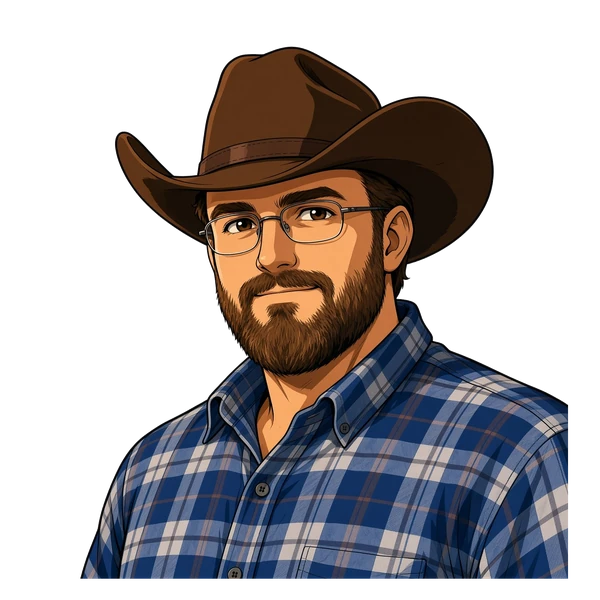
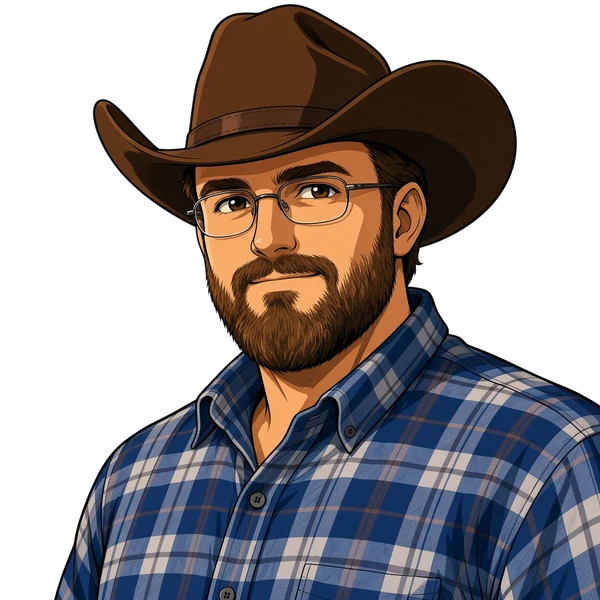
Charles's Super cleaned up, KO lines match the button
Midnight Express drops the peer-reviewer emojis for his nearly-four-hour
video (SURPRISE AMA, 0:07 / 3:47:12). Captions type at reading speed,
the lights go out mid-word, a 💤 rises, and the name card and line get
time to be read; the timing is worked out from the caption lines.

A renamed button without its own KO line now finishes with its success
line (Peer Review: PEER REVIEWED) instead of the generic JPEG TO THE
FACE. Charles's portrait crop no longer leaves a strip of red under his
shirt, and tools/art.py warns when a crop would. Landscape cut-ins get a
smaller portrait and text, with Charles's video, Toly's brochure and
Saylor's chart moved to the side.

Claude-Session: https://claude.ai/code/session_0197NeYcZbQs6GvUXdfpX7EN

diff --git a/css/style.css b/css/style.css
@@ -600,8 +600,6 @@ button, select, a.btn { font: inherit; touch-action: manipulation; }
 .gold-truck small { font: 900 10px var(--body); color: var(--gold); background: #000b; padding: 2px 6px; border-radius: 4px; margin-top: 4px; }
 .deco-run span { display: inline-block; animation: rise .25s ease-in-out infinite alternate; }
 .deco-run span:nth-child(odd) { animation-delay: -.12s; }
-.deco-nerds { font-size: 30px; }
-.deco-nerds span { display: inline-block; margin: 0 4px; animation: rise .6s ease-in-out infinite alternate; }
 .deco-drop { position: absolute; left: 8%; top: 4%; font-size: 90px; animation: drop .6s cubic-bezier(.3, 1.6, .5, 1) both; }
 .deco-bytes {
   position: absolute; left: 0; top: 7%; white-space: nowrap;
@@ -658,24 +656,46 @@ button, select, a.btn { font: inherit; touch-action: manipulation; }
 .res-astro { position: absolute; right: -4px; top: -2px; width: 70px; opacity: .9; transform: rotate(10deg); pointer-events: none; }
 .res-astro svg { width: 100%; height: auto; display: block; }
 
-/* Charles: Midnight Express. Lecture under the peer reviewers, lights out mid-word, moon and stars. */
+/* Charles: Midnight Express. His nearly-four-hour video, captions typing at reading speed, then lights
+   out mid-word, moon, stars and 💤. --off (when the lights go out) is worked out from the captions. */
 .sup-midnight .cutin-card, .sup-midnight .cutin-line { z-index: 5; }
-.lecture {
-  position: absolute; left: 50%; top: 15%;
+.cutin.sup-midnight { justify-content: flex-end; padding-bottom: 7vh; } /* the video takes the top */
+.midnight { position: absolute; inset: 0; }
+.vplayer {
+  position: absolute; left: 50%; top: 4%;
   transform: translateX(-50%);
-  max-width: calc(100% - 24px);
-  padding: 8px 12px;
-  border: 3px solid var(--line); border-radius: 12px;
-  background: #fff; color: #111;
-  font: 800 clamp(10px, 3.2vw, 14px) ui-monospace, SFMono-Regular, Menlo, monospace;
-  white-space: nowrap; overflow: hidden;
+  width: min(90%, 440px); aspect-ratio: 16 / 9;
+  border: 3px solid var(--line); border-radius: 12px; overflow: hidden;
+  background: #15131f;
+  box-shadow: 0 6px 0 #0006;
 }
-.lecture span { display: inline-block; overflow: hidden; vertical-align: bottom; width: 0; }
-.cutin.play .lecture span { animation: typeOn 1.05s .25s steps(42, end) forwards; }
+.vp-frame { position: absolute; inset: 0; display: grid; place-items: center; font-size: 70px; filter: brightness(.55) saturate(.8); }
+.vp-frame .art-head { border-radius: 0; object-position: 50% 30%; }
+.vp-title {
+  position: absolute; left: 10px; top: 8px;
+  font: 800 clamp(10px, 3vw, 13px) var(--body); letter-spacing: .06em; color: #fff;
+  text-shadow: 0 1px 2px #000;
+}
+.vp-caps {
+  position: absolute; left: 0; right: 0; bottom: 30px;
+  display: flex; flex-direction: column; align-items: center; gap: 4px;
+}
+.vp-caps span {
+  display: block; overflow: hidden; white-space: nowrap; width: 0;
+  padding: 2px 0;
+  background: #000d; color: #fff;
+  font: 800 clamp(12px, 4.1vw, 17px) ui-monospace, SFMono-Regular, Menlo, monospace;
+}
+.cutin.play .vp-caps span { animation: typeOn var(--t) var(--d) steps(var(--chars), end) forwards; }
+.vp-time { position: absolute; left: 10px; bottom: 9px; font: 700 clamp(9px, 2.8vw, 12px) var(--body); color: #fff; }
+.vp-bar { position: absolute; left: 0; right: 0; bottom: 0; height: 5px; background: #fff4; }
+.vp-bar i { position: absolute; left: 0; top: 0; bottom: 0; width: 3%; background: #ef4444; }
 .blackout { position: absolute; inset: 0; background: #04050c; opacity: 0; z-index: 2; }
-.cutin.play .blackout { animation: lightsOut .01s 1.35s forwards; }
+.cutin.play .blackout { animation: lightsOut .01s var(--off, 1.35s) forwards; }
 .night { position: absolute; inset: 0; z-index: 3; opacity: 0; }
-.cutin.play .night { animation: fadeIn .4s 1.4s forwards; }
+.cutin.play .night { animation: fadeIn .4s calc(var(--off, 1.35s) + .05s) forwards; }
+.zzz { position: absolute; left: 20%; top: 34%; font-size: 40px; opacity: 0; }
+.cutin.play .zzz { animation: zzzRise 1.8s calc(var(--off, 1.35s) + .3s) ease-out forwards; }
 .moon {
   position: absolute; right: 14%; top: 7%;
   width: min(22vw, 110px); aspect-ratio: 1; border-radius: 50%;
@@ -862,6 +882,16 @@ button, select, a.btn { font: inherit; touch-action: manipulation; }
   }
   .move { min-height: 48px; }
   .fighter { height: 70%; width: auto; aspect-ratio: .6; }
+  /* Cut-ins: a smaller portrait so portrait, name card and line fit a short screen. */
+  .cutin { gap: 10px; }
+  .cutin-portrait { width: min(36vh, 200px); }
+  .cutin-head { font-size: min(20vh, 100px); }
+  .cutin-name { font-size: min(13vh, 56px); }
+  .cutin-line { font-size: min(6.5vh, 26px); max-width: 70vw; }
+  /* Toly's brochure and Saylor's chart move to the left half, clear of the portrait. */
+  .brochure { left: 18%; top: 22%; }
+  .tracker { left: 3%; right: auto; width: 34%; top: 8%; height: 46%; }
+  .saga-box { left: 4%; bottom: 5%; }
 }
 
 /* ---------- Keyframes ---------- */
@@ -929,12 +959,19 @@ button, select, a.btn { font: inherit; touch-action: manipulation; }
 @keyframes pump { 50% { transform: rotate(-14deg); } }
 @keyframes thump { 0% { transform: scale(1.05); } 100% { transform: scale(1); } }
 @keyframes typeOn { to { width: calc(var(--chars) * 1ch); } }
+@keyframes zzzRise { 0% { opacity: 0; transform: translateY(20px) scale(.7); } 30% { opacity: 1; } 100% { opacity: .9; transform: translateY(-40px) scale(1.1); } }
 @keyframes lightsOut { to { opacity: 1; } }
 @keyframes fadeIn { to { opacity: 1; } }
 @keyframes twinkle { from { opacity: .2; } to { opacity: 1; } }
 @keyframes creep { to { transform: translateX(8vw); } }
 @keyframes glow { from { filter: brightness(1); } to { filter: brightness(1.35); } }
 @keyframes pulse { 50% { filter: brightness(1.15); transform: scale(1.015); } }
+
+/* Landscape phones: Charles's video on the left, his portrait and name card on the right. */
+@media (orientation: landscape) and (max-height: 520px) {
+  .cutin.sup-midnight { justify-content: center; align-items: flex-end; padding: 16px 5vw 16px 16px; }
+  .sup-midnight .vplayer { left: 4%; top: 50%; transform: translateY(-50%); width: min(50%, 440px); }
+}
 
 @media (prefers-reduced-motion: reduce) {
   .f-bob, .title-roster span, .move-super.ready, .blocks.full i.on, .deco-sun, .deco-run, .deco-bytes,

diff --git a/js/app.js b/js/app.js
@@ -716,17 +716,38 @@
       dots + '</svg></div>';
   }
 
-  // Charles: the peer reviewers nod along, the lecture types out, and the lights go out mid-word.
-  function midnightDeco(lecture) {
+  // Charles: his nearly-four-hour video. Captions type at reading speed, a beat, then lights out
+  // mid-word, moon and stars, 💤. Everything after the blackout is timed from when it lands.
+  var TYPE_CPS = 22;        // caption typing speed, characters per second (about reading speed)
+  function lectureTiming(lines) {
+    var t = 0.4, out = [];
+    lines.forEach(function (txt) {
+      var dur = txt.length / TYPE_CPS;
+      out.push({ delay: t, dur: dur });
+      t += dur + 0.15;
+    });
+    return { lines: out, blackout: t + 0.3 }; // the last line hangs for a beat, then lights out
+  }
+
+  function midnightDeco(sup) {
+    var T = lectureTiming(sup.lecture), off = T.blackout;
     var stars = '';
     for (var k = 0; k < 26; k++) {
       stars += '<i style="left:' + Math.round(Math.random() * 100) + '%;top:' + Math.round(Math.random() * 70) +
-        '%;animation-delay:' + (1.4 + Math.random() * 0.6).toFixed(2) + 's"></i>';
+        '%;animation-delay:' + (off + 0.05 + Math.random() * 0.6).toFixed(2) + 's"></i>';
     }
-    return '<div class="deco-row deco-nerds">' + spans('🤓💻', 5) + '</div>' +
-      '<div class="lecture"><span style="--chars:' + lecture.length + '">' + esc(lecture) + '</span></div>' +
+    var F = D.FIGHTERS.charles;
+    var caps = sup.lecture.map(function (txt, k) {
+      return '<span style="--chars:' + txt.length + ';--t:' + T.lines[k].dur.toFixed(2) + 's;--d:' +
+        T.lines[k].delay.toFixed(2) + 's">' + esc(txt) + '</span>';
+    }).join('');
+    return '<div class="midnight" style="--off:' + off.toFixed(2) + 's">' +
+      '<div class="vplayer"><div class="vp-frame">' + faceHTML(F) + '</div>' +
+      '<div class="vp-title">' + esc(sup.video.title) + '</div>' +
+      '<div class="vp-caps">' + caps + '</div>' +
+      '<div class="vp-time">' + esc(sup.video.time) + '</div><div class="vp-bar"><i></i></div></div>' +
       '<div class="blackout"></div>' +
-      '<div class="night"><div class="moon"></div>' + stars + '</div>';
+      '<div class="night"><div class="moon"></div>' + stars + '<div class="zzz">💤</div></div></div>';
   }
 
   // Garlinghouse: the polo-shirt army jogs across. One TikToker yells a price target, one carries a
@@ -744,7 +765,7 @@
       case 'dance': return { screen: badgerDanceDeco() };
       case 'helium': return { screen: '<div class="deco-sun"></div>', portrait: '<div class="dome-beam"></div>' };
       case 'xrparmy': return { screen: armyDeco() };
-      case 'midnight': return { screen: midnightDeco(D.FIGHTERS.charles.super.lecture) };
+      case 'midnight': return { screen: midnightDeco(D.FIGHTERS.charles.super) };
       case 'orangedot': return { screen: trackerChart() };
       case 'opreturn': return { screen: '<div class="deco-bytes">OP_RETURN 6a4c50' + randomHex(28) + '…</div>' };
     }
@@ -852,7 +873,14 @@
         el.style.setProperty('--line-delay', ((lockAt + 150) / 1000) + 's');
         duration = lockAt + 1700;
       }
-      // Supers with their own pacing (Charles: the name card waits for the lights to go out).
+      // Charles: the name card and line wait for the lights to go out, then get time to be read.
+      if (sup.lecture) {
+        var off = lectureTiming(sup.lecture).blackout;
+        el.style.setProperty('--card-delay', (off + 0.15) + 's');
+        el.style.setProperty('--line-delay', (off + 0.6) + 's');
+        duration = Math.round((off + 2.3) * 1000);
+      }
+      // Supers with their own pacing.
       if (sup.timing) {
         el.style.setProperty('--card-delay', sup.timing.card + 's');
         el.style.setProperty('--line-delay', sup.timing.line + 's');

diff --git a/tools/check.js b/tools/check.js
@@ -158,7 +158,7 @@ test('Toly beating Saylor, any way, reads THERE IS A SECOND BEST', function () {
   assert.strictEqual(f.finishCause, 'strike');
 });
 
-test('Toly: Comrades KO reads CHEAP FAST CHAIN GUD; MEV Hunt KO keeps EXIT LIQUIDITY', function () {
+test('Toly: Comrades KO reads CHEAP FAST CHAIN GUD; MEV Hunt KO reads its success line', function () {
   var f = E.newFight({ player: 'toly', cpu: 'mert', seed: 1 });
   f.f[1].hp = 5;
   rig(f, [cpuRoll('mert', 'strike')]);
@@ -168,7 +168,21 @@ test('Toly: Comrades KO reads CHEAP FAST CHAIN GUD; MEV Hunt KO keeps EXIT LIQUI
   g.f[1].hp = 5;
   rig(g, [cpuRoll('mert', 'strike'), 0 /* MEV Hunt lands */]);
   E.playTurn(g, 'rug');
-  assert.strictEqual(g.finish, D.FINISH.rug);
+  assert.strictEqual(g.finish, 'DRONE THE SANDWICHERS');
+});
+
+test('A renamed button without its own KO line finishes with its success line, never the generic one', function () {
+  var f = E.newFight({ player: 'charles', cpu: 'adam', seed: 1 });
+  f.f[1].hp = 5;
+  rig(f, [cpuRoll('adam', 'strike'), 0 /* Peer Review lands */]);
+  E.playTurn(f, 'mint');
+  assert.strictEqual(f.finish, 'PEER REVIEWED');
+  D.ROSTER.forEach(function (id) {
+    var M = D.FIGHTERS[id].moves || {};
+    ['mint', 'rug'].forEach(function (m) {
+      if (M[m]) assert(M[m].ko || M[m].ok, id + ' ' + m + ': needs a KO or success line');
+    });
+  });
 });
 
 test('Mert Super KO reads TRILLIONS', function () {

diff --git a/js/data.js b/js/data.js
@@ -208,10 +208,11 @@
       dodgeLine: 'I AM NOT ACCOUNTABLE', // when an attack misses him because he hid
       super: {
         id: 'midnight', name: 'Midnight Express', prop: '🐺',
-        // The lecture types out under the peer reviewers, then the lights go out mid-word.
-        lecture: 'SO, TO GIVE SOME CONTEXT, BACK IN 2015 WE—',
+        // His nearly-four-hour video: the captions type out at reading speed (one entry per line), then
+        // the lights go out mid-word. The cut-in's pacing is worked out from these lines.
+        lecture: ['SO, TO GIVE SOME CONTEXT,', 'BACK IN 2015 WE—'],
+        video: { title: 'SURPRISE AMA', time: '0:07 / 3:47:12' },
         line: 'BIGGER THAN ZCASH',
-        timing: { card: 1.5, line: 1.95, dur: 3.4 }, // seconds: name card and line wait for the blackout
         blurb: 'Hit + Sleep (skip next turn) + they lose 3 Blocks', finish: 'LFG 2027',
         cpuAfter: "I'M HERE TO STAY",
         skipLine: 'DEAL WITH IT.'

diff --git a/js/engine.js b/js/engine.js
@@ -142,7 +142,9 @@
       if (attacker === loser) { cause = 'self'; fight.finish = D.FINISH.self; }
       else if (rival) fight.finish = rival;
       else if (cause === 'super') fight.finish = W.super.finish;
-      else if (W.moves && W.moves[cause] && W.moves[cause].ko) fight.finish = W.moves[cause].ko;
+      // A renamed button's own KO line, else its success line (Charles's Peer Review: PEER REVIEWED),
+      // so a pink-button KO never falls back to the generic JPEG TO THE FACE.
+      else if (W.moves && W.moves[cause] && (W.moves[cause].ko || W.moves[cause].ok)) fight.finish = W.moves[cause].ko || W.moves[cause].ok;
       else fight.finish = D.FINISH[cause];
       fight.finishCause = cause;
       push({ t: 'ko', winner: fight.winner, loser: loser, finish: fight.finish, cause: cause });

diff --git a/tools/art.py b/tools/art.py
@@ -123,6 +123,17 @@ def main():
     if args.kind == 'head':
         c = [float(v) for v in args.crop.split(',')] if args.crop else HEAD_CROP
         w, h = im.size
+        # Reaching past an edge the art touches leaves an empty strip with a straight cut (Charles's
+        # shirt once ended short of the frame, showing his red behind it).
+        a = im.getchannel('A')
+        edges = {'left': (c[0] < 0, [a.getpixel((0, y)) for y in range(h)]),
+                 'top': (c[1] < 0, [a.getpixel((x, 0)) for x in range(w)]),
+                 'right': (c[2] > 1, [a.getpixel((w - 1, y)) for y in range(h)]),
+                 'bottom': (c[3] > 1, [a.getpixel((x, h - 1)) for x in range(w)])}
+        for side, (past, line) in edges.items():
+            if past and sum(1 for v in line if v) > len(line) // 100:
+                print('WARNING: the crop reaches past the %s edge, where the art touches it; '
+                      'that edge will show a straight cut in the round frames' % side)
         im = im.crop((round(c[0] * w), round(c[1] * h), round(c[2] * w), round(c[3] * h)))
         im = im.resize((HEAD_SIZE, HEAD_SIZE), Image.LANCZOS)
     else:

diff --git a/GAMEPLAN.md b/GAMEPLAN.md
@@ -11,6 +11,13 @@ This is the document to build from. If a feature is not in **v1**, it does not g
 
 ## 0. Changes
 
+### Oct 3, 2026: Charles's Super cleaned up, KO lines fixed
+
+- **Midnight Express is readable now.** The peer-reviewer emojis are gone (they didn't read for casual players). Instead Charles is on a video, `SURPRISE AMA` at `0:07 / 3:47:12`, and his captions type at reading speed: `SO, TO GIVE SOME CONTEXT,` / `BACK IN 2015 WE—`. The lights go out mid-word, a 💤 rises (the Sleep effect explained), then `MIDNIGHT EXPRESS` / `BIGGER THAN ZCASH` with time to read them. About 5 seconds; tap to skip still works.
+- **KO lines match the button.** A renamed button without its own KO line now finishes with its success line, so a Peer Review KO reads `PEER REVIEWED` instead of the generic `JPEG TO THE FACE`. Same for every fighter's pink and purple buttons (Slop Cannon: `SLOP, KINO, SKIBIDI BOP`, Lawsuit: `WE WILL PREVAIL`, Leios: `THE MAGIC OF LEIOS`, ...).
+- **Charles's portrait** no longer shows a strip of red under his shirt in the round frames. The art tool now warns when a crop would cause that.
+- **Landscape phones:** Super cut-ins get a smaller portrait and text so everything fits; Charles's video, Toly's brochure and Saylor's chart move to the side.
+
 ### Oct 2–3, 2026: fighter art for all seven
 
 The art style is locked. Fighters get it one at a time. Guide, prompts and status: [docs/art/README.md](docs/art/README.md).
@@ -338,12 +345,12 @@ All Supers can't be dodged. Numbers are locked for v1 (tune in `js/data.js`).
 | Mert | **CEO of Helium** ([doc](docs/supers/mert.md)) | Name card flickers HELIUS / HELIUM / HIVEMAPPER, then locks. Sun catches the dome, beam sweeps their eyes. "THE RPCS DID THIS" | **8 dmg + Blind** (they skip their next turn; `WHO WAS THAT`) | TRILLIONS |
 | Toly | **Second Best Salesman** ([doc](docs/supers/toly.md)) | A brochure of phone bricks fans open, he slaps a `BUY NOW` phone into them, airdrop confetti. "APPLE + SOLANA MOBILE: 3.469 BILLION" | **35 dmg**, one hit | HATER CONVERTED |
 | Garlinghouse | **XRP Army** ([doc](docs/supers/garlinghouse.md)) | Polo-shirt army jogs across; a TikToker yells `$589 BY FRIDAY`, a `SWIFT IS DEAD` sign, a gold truck at 1940 speed; he says "RIPPLE 3, SEC 0", slightly embarrassed | **5 hits × 5 dmg = 25** | WE WON. THEY LOST. |
-| Charles | **Midnight Express** ([doc](docs/supers/charles.md)) | Five peer reviewers nod while his sentence types out; the lights go out mid-word; moon, stars, "BIGGER THAN ZCASH" | **15 dmg + Sleep** (skip next turn) **+ they lose 3 Blocks** | LFG 2027 |
+| Charles | **Midnight Express** ([doc](docs/supers/charles.md)) | His nearly-four-hour video (`SURPRISE AMA`, `0:07 / 3:47:12`), captions typing at reading speed; the lights go out mid-word; moon, stars, 💤, "BIGGER THAN ZCASH" | **15 dmg + Sleep** (skip next turn) **+ they lose 3 Blocks** | LFG 2027 |
 | Saylor | **Another Orange Dot** ([doc](docs/supers/saylor.md)) | Orange dots stamp one by one onto his tracker chart. "A LITTLE MORE ORANGE". On a KO: the astronaut DJ, `FIAT AS A STORE OF VALUE` / `WE CALL THEM POOR` | **25 dmg + HODL** (Saylor takes half damage this turn and next) | WE CALL THEM POOR |
 | Adam Back | **OP_RETURN** ([doc](docs/supers/adam.md)) | Long-barreled gun etched `OP_RETURN` fires a data blob. "FORK AROUND AND FIND OUT". `SALTY TEARS` if it strips a HODL | **Prune** (strips their HODL) **then 25 dmg** | CHECKMATE FORKERS |
 | Vitalik | **Badger Dance** ([doc](docs/supers/vitalik.md)) | The badger dance: a green screen of badgers and a stage of people in lanyards, arms straight out, flapping in sync; Vitalik front and center. "DON'T LOOK AT THE DANCE." Their self-hits read `DEFENSIVE ACCELERATION` | **15 dmg + Hypnotized** (their next Strike / Mint / Rug hits themselves) | THERE IS ONLY LOVE |
 
-Non-Super KO finish lines: Strike `HONEST WORK`, Mint `JPEG TO THE FACE`, Rug `EXIT LIQUIDITY`, hitting yourself `SELF-REKT`.
+Non-Super KO finish lines: a button's own KO line if it has one (below), else that button's success line (Peer Review: `PEER REVIEWED`). The generic Strike `HONEST WORK`, Mint `JPEG TO THE FACE`, Rug `EXIT LIQUIDITY` only show for a button with neither (today: Mert's Shitpost reads `HONEST WORK`). Hitting yourself: `SELF-REKT`.
 
 **Rival KO lines** replace the finish line for one specific matchup, by any move: Toly beating Saylor reads `THERE IS A SECOND BEST`, Saylor beating Toly reads `THERE IS NO SECOND BEST`, Charles beating Mert reads `BIGGER THAN ZOLANA`.
 

diff --git a/docs/art/README.md b/docs/art/README.md
@@ -139,13 +139,13 @@ python3 tools/art.py head garlinghouse-portrait.jpg art/garlinghouse-head.webp
 python3 tools/art.py body garlinghouse-sprite.jpg art/garlinghouse-body.webp --gap 408,612
 python3 tools/art.py head adam-portrait.jpg art/adam-head.webp --gap 1044,504 --crop 0.0,-0.04,1.0,0.96
 python3 tools/art.py body adam-sprite.jpg art/adam-body.webp --gap 376,608
-python3 tools/art.py head charles-portrait.jpg art/charles-head.webp --crop=-0.06,-0.08,1.06,1.04
+python3 tools/art.py head charles-portrait.jpg art/charles-head.webp --crop=0,0,1,1
 python3 tools/art.py body charles-sprite.jpg art/charles-body.webp
 python3 tools/art.py head saylor-portrait.jpg art/saylor-head.webp --crop=0.0,-0.04,1.0,0.96
 python3 tools/art.py body saylor-sprite.jpg art/saylor-body.webp
 ```
 
-Mert's head filled the top of the frame, so his crop starts above the image (the extra space is transparent) to keep the round frames from clipping his dome. The two white pockets the tool listed on his sprite are his sneakers, so they stay. Garlinghouse's pocket was a thin sliver of background between his sleeve and his jacket, so it was cleared. Portraits never flood in from the bottom edge, since that's always clothing (his white shirt would have been erased). Adam's portrait pocket was background seen through his glasses past his cheek, and his cap touched the top of the image, so he got Mert's extra headroom too. Charles's hat brim ran past the image edges, so his crop zooms out on every side (write `--crop=` with an equals sign when a number starts with a minus).
+Mert's head filled the top of the frame, so his crop starts above the image (the extra space is transparent) to keep the round frames from clipping his dome. The two white pockets the tool listed on his sprite are his sneakers, so they stay. Garlinghouse's pocket was a thin sliver of background between his sleeve and his jacket, so it was cleared. Portraits never flood in from the bottom edge, since that's always clothing (his white shirt would have been erased). Adam's portrait pocket was background seen through his glasses past his cheek, and his cap touched the top of the image, so he got Mert's extra headroom too. Charles's hat brim ran wide, so his crop uses the whole image. A crop can also reach past an edge to zoom out (write `--crop=` with an equals sign when a number starts with a minus), but only past edges the art doesn't touch: his first crop reached past the bottom and right, where his shirt runs off the image, and left a strip of his red showing under it. The tool now warns about that.
 
 Then the fighter gets `art: { head: 'art/<id>-head.webp', body: 'art/<id>-body.webp' }` in `js/data.js`. On stage the sprite stands about 18% taller than the block body (a very wide pose shrinks to stay on screen); when KO'd it falls flat on its back at 70% size so it fits on a phone. A fighter with only a portrait shows it as the head on the block body.
 

diff --git a/docs/supers/charles.md b/docs/supers/charles.md
@@ -71,5 +71,21 @@ Prop on the portrait: 🐺 (Dire Wolf Mode).
 
 ## Art (Oct 3, 2026)
 
-Charles has real art now (see [docs/art/README.md](../art/README.md)). He's the one fighter drawn grinning, since he smiles in every photo: the guy who already knows he's won, which fits `DEAL WITH IT.` and `I'M HERE TO STAY`. Portrait: cowboy hat, glasses, beard, blue plaid shirt. Sprite: the same outfit with jeans and cowboy boots, and a stack of papers under one arm (Peer Review). The portrait shows in the Midnight Express cut-in under the nodding peer reviewers, then the lights go out.
+Charles has real art now (see [docs/art/README.md](../art/README.md)). He's the one fighter drawn grinning, since he smiles in every photo: the guy who already knows he's won, which fits `DEAL WITH IT.` and `I'M HERE TO STAY`. Portrait: cowboy hat, glasses, beard, blue plaid shirt. Sprite: the same outfit with jeans and cowboy boots, and a stack of papers under one arm (Peer Review). The portrait shows in the Midnight Express cut-in (and, dimmed, on the video), then the lights go out.
+
+## Update (Oct 3, 2026): Midnight Express, cleaned up
+
+Playtest notes from the user: the cut-in was too quick to read, and the peer-reviewer emojis (🤓💻) didn't make sense to casual players. Also, a Peer Review KO read `JPEG TO THE FACE`.
+
+**The cut-in now:**
+1. A video player at the top: his portrait (dimmed) as the video, titled `SURPRISE AMA`, timestamp `0:07 / 3:47:12`, progress bar barely started. Anyone gets "this video is almost four hours long".
+2. His captions type out at reading speed (22 characters a second), two lines: `SO, TO GIVE SOME CONTEXT,` / `BACK IN 2015 WE—`. His round portrait sits below.
+3. The last line hangs for a beat, then the lights go out mid-word. Moon, stars, and a 💤 rises: the lecture put the opponent to sleep (the Sleep effect, explained without words).
+4. `MIDNIGHT EXPRESS` / `CHARLES`, then `"BIGGER THAN ZCASH"`, each with time to read.
+
+About 5.2 seconds (it was 3.4); tap to skip still works after the first half second. All the timing is worked out from the caption lines in `js/data.js` (`charles.super.lecture`), so editing them keeps it in sync.
+
+**KO lines:** a renamed button without its own KO line now finishes with its success line, so Peer Review reads `PEER REVIEWED`. Any button can still get its own KO line later.
+
+**Where it lives:** `js/data.js` (`charles.super.lecture`, `video`), `js/app.js` (`lectureTiming`, `midnightDeco`), `css/style.css` (search "Midnight Express").
 

diff --git a/docs/supers/README.md b/docs/supers/README.md
@@ -36,7 +36,7 @@ Every fighter has the same five buttons with the same colors and jobs. A fighter
 
 Every button can also have:
 - **a nickname**, shown small next to the name (Saylor: STRC *Stretch*)
-- **a KO line** used when that button lands the knockout (Saylor's STRC: STRETCH)
+- **a KO line** used when that button lands the knockout (Saylor's STRC: STRETCH). Without one, a knockout with that button reads its success line (Charles's Peer Review: PEER REVIEWED).
 - **a ticker** that pops over the fighter when it lands (`MSTR ▲ 37%`, where the number is the damage roll) and sits under the flop banner (`MSTR ▼`)
 
 **Button names: 12 characters max** (they have to fit on a phone). Banner lines: under ~25 characters reads best.
